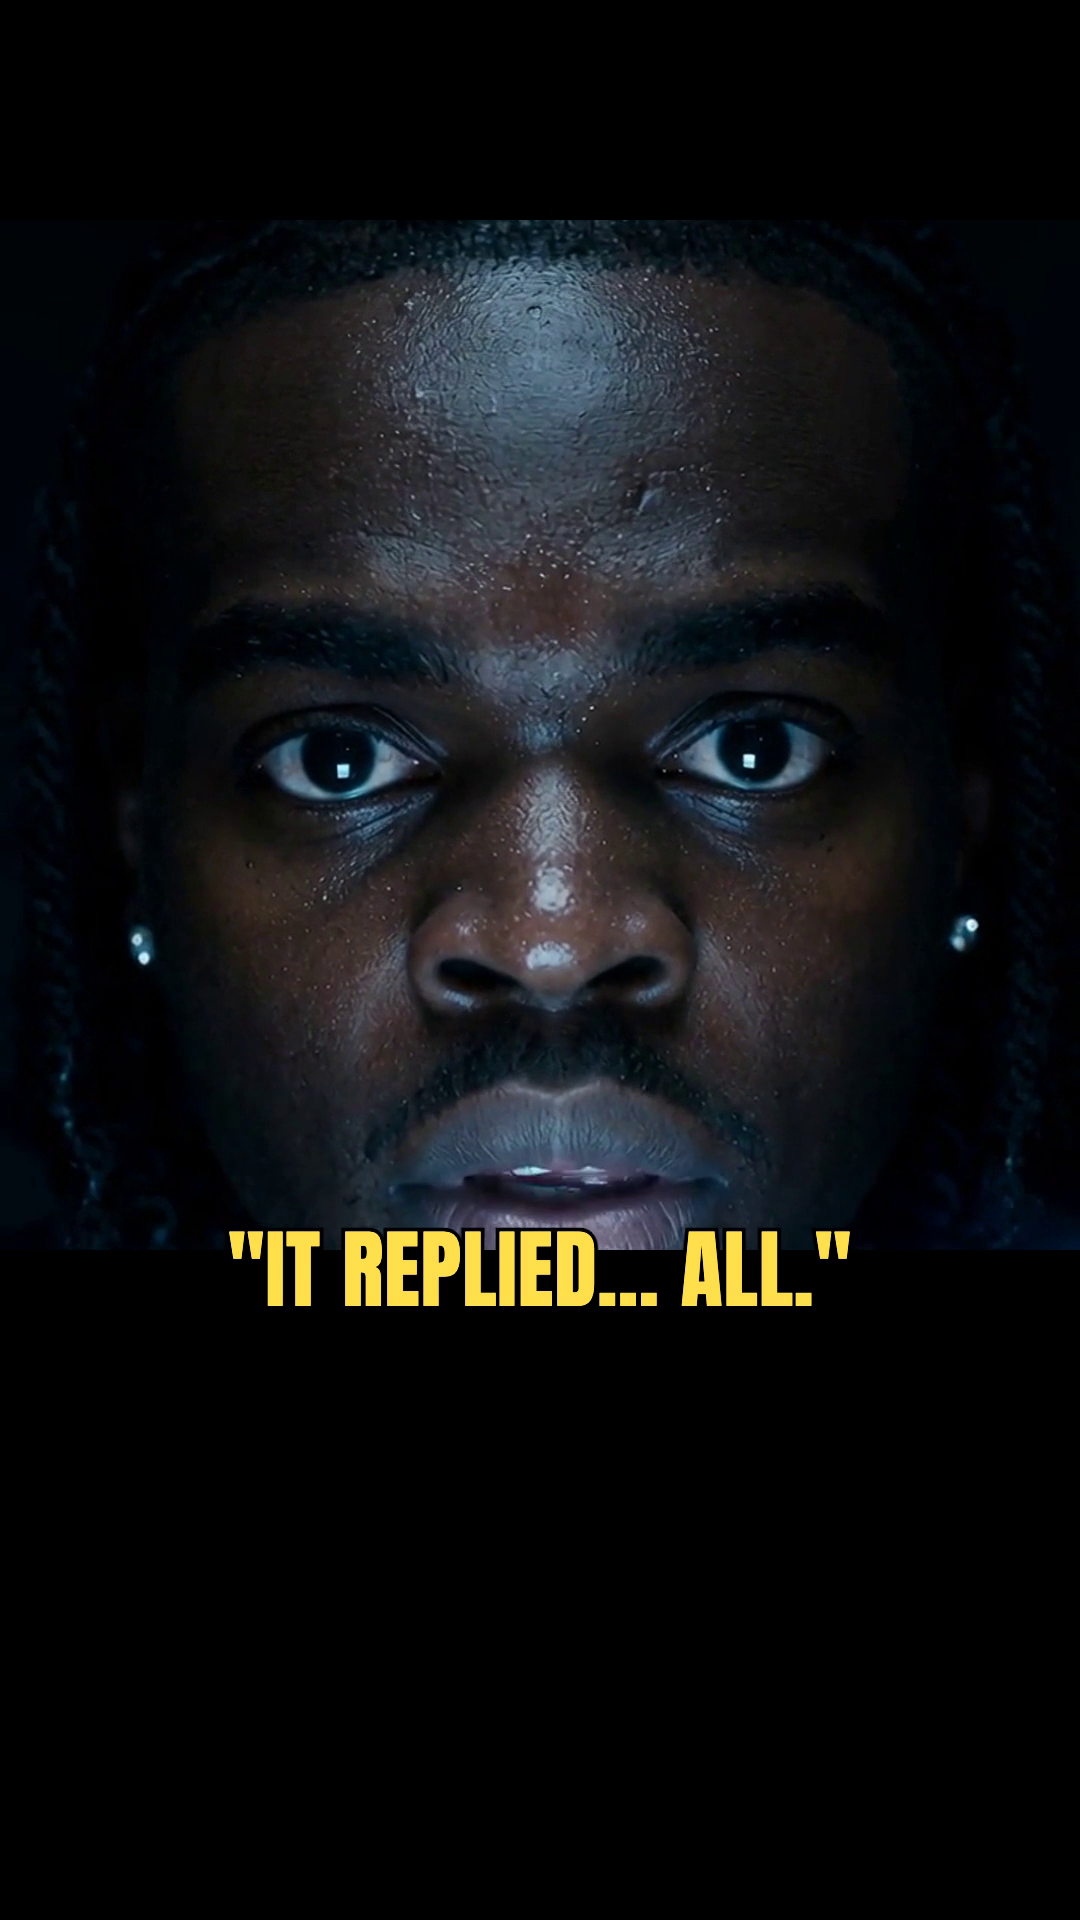
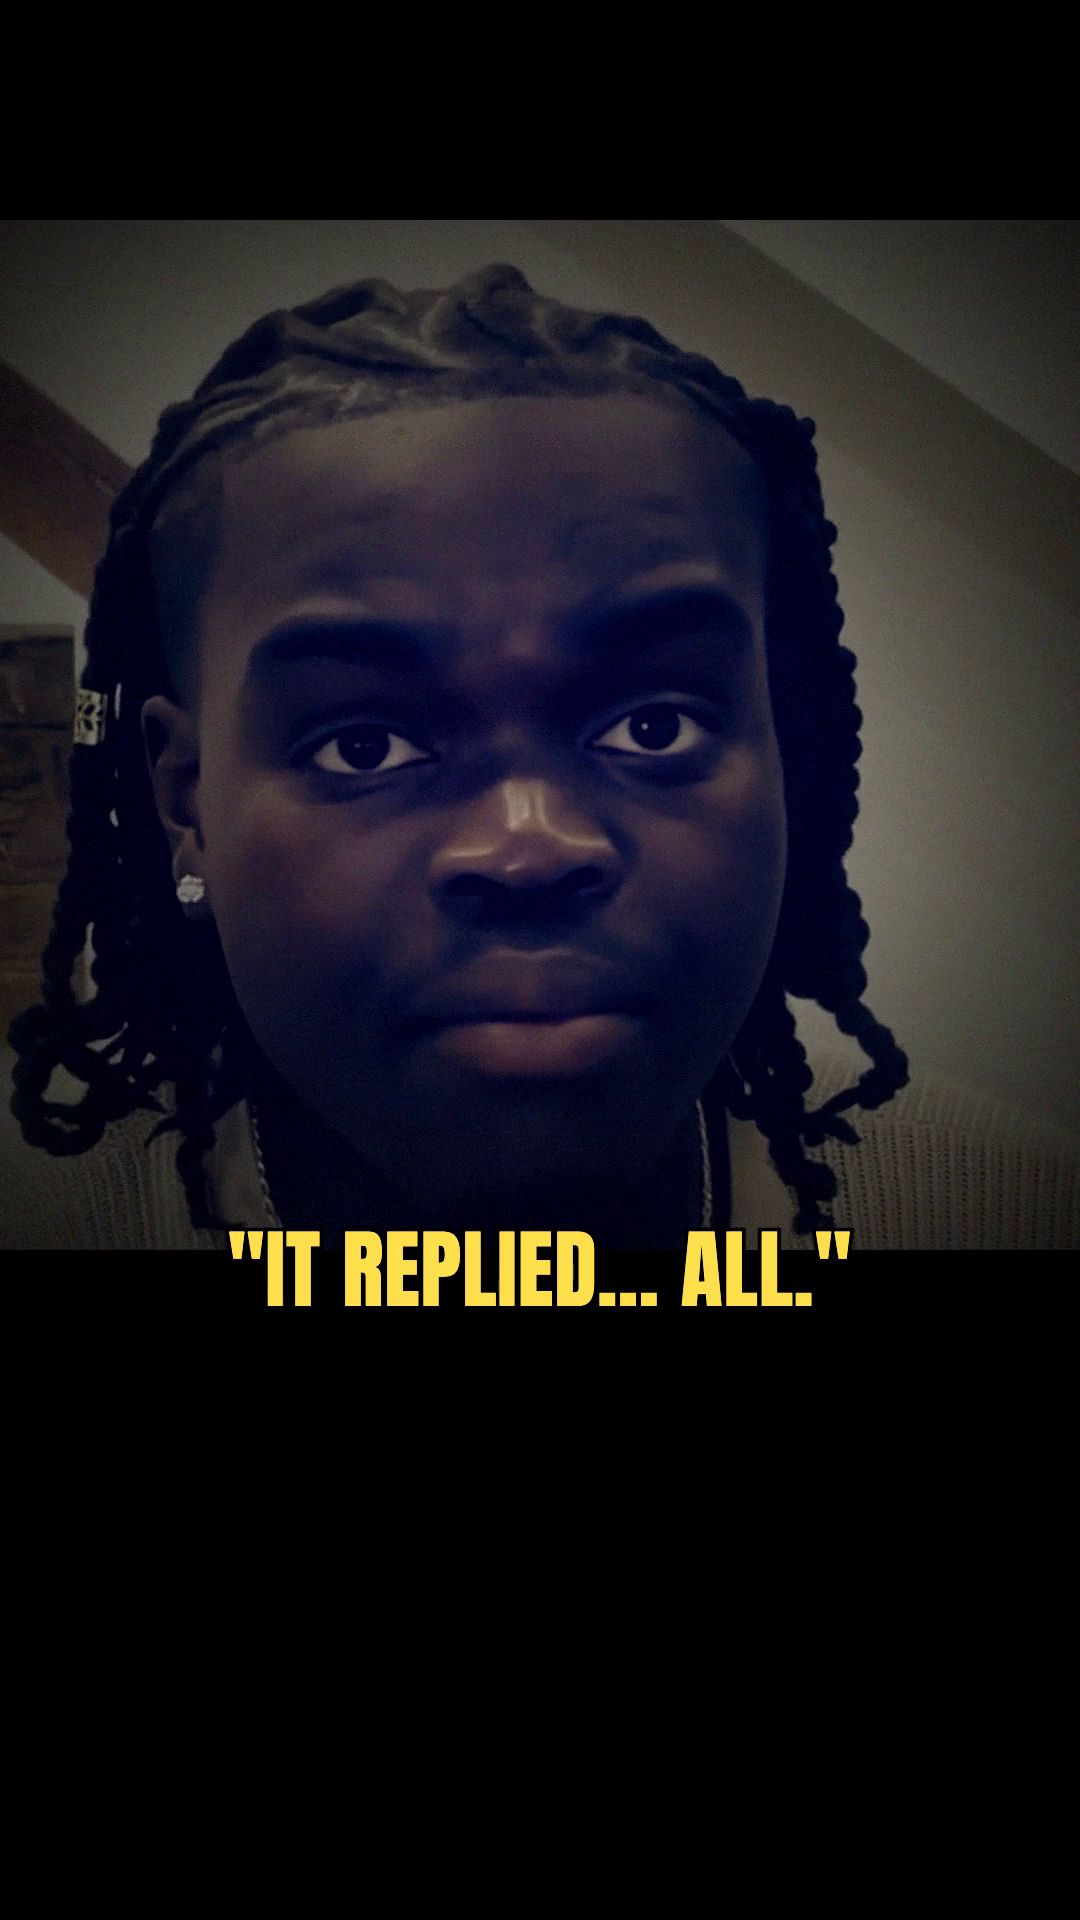
Reply All trailer: real-likeness stills from Korede's photos, real lip-synced face for the whisper shot, no music

diff --git a/content/2026-W44/ig-personal-sat-2100-reply-all-trailer/copy.md b/content/2026-W44/ig-personal-sat-2100-reply-all-trailer/copy.md
@@ -29,3 +29,9 @@ Reel cost about $0.65.
 Freebie for keyword AI: AI Employee Starter Pack (assets/freebies/ai-employee-starter-pack.pdf, listed in config/offers.json).
 Format research: research/style-ai-slop.md. All Korede shots are generated from his likeness photos (assets/talking-head/likeness/korede-terrace.jpg, korede-ubahn.jpg, assets/talking-head/korede-still.png) via nano-banana-2 image editing, then animated. No real people other than Korede, no brand logos on screen (the chat and voice-mode UIs are generic, drawn in HTML).
 Korede voice: HeyGen heygen-voice-1-turbo-free, instant clone 2119a56717374a708188f84e99e8f2c4. Assembly: ffmpeg (scratchpad assembler), captions rendered with Playwright (Anton), loudness -14 LUFS. SFX from assets/sfx. Not yet linted by Korede; status draft. Consider a trending IG audio swap at queue time.
+
+Likeness rebuild 2026-10-24 (Korede: "looks insanely not like me"):
+- Laptop and printer stills re-made with nano-banana-2 editing REAL photos of Korede (laptop-rooftop.jpg, korede-ubahn.jpg) with his front plate frame and terrace photo as identity refs, 2K; outputs checked face-to-face against the refs (young round face, braids, ear studs). Saved in src/. Slow push-ins instead of AI motion so the face can't drift.
+- Whisper close-up ("it replied... all.") is now his REAL face: a 3.2 s cut of the W43 lip-sync plate, re-lip-synced to the whisper line (volcengine lite), dark blue phone-lit grade.
+- Music removed (Korede adds his own); SFX: impact, whoosh, riser, notify, print, explode, thud.
+- Spend $0.32 (4 stills + 1 lip-sync). Assembly spec: src/assemble-spec.json (scratchpad assembler).
